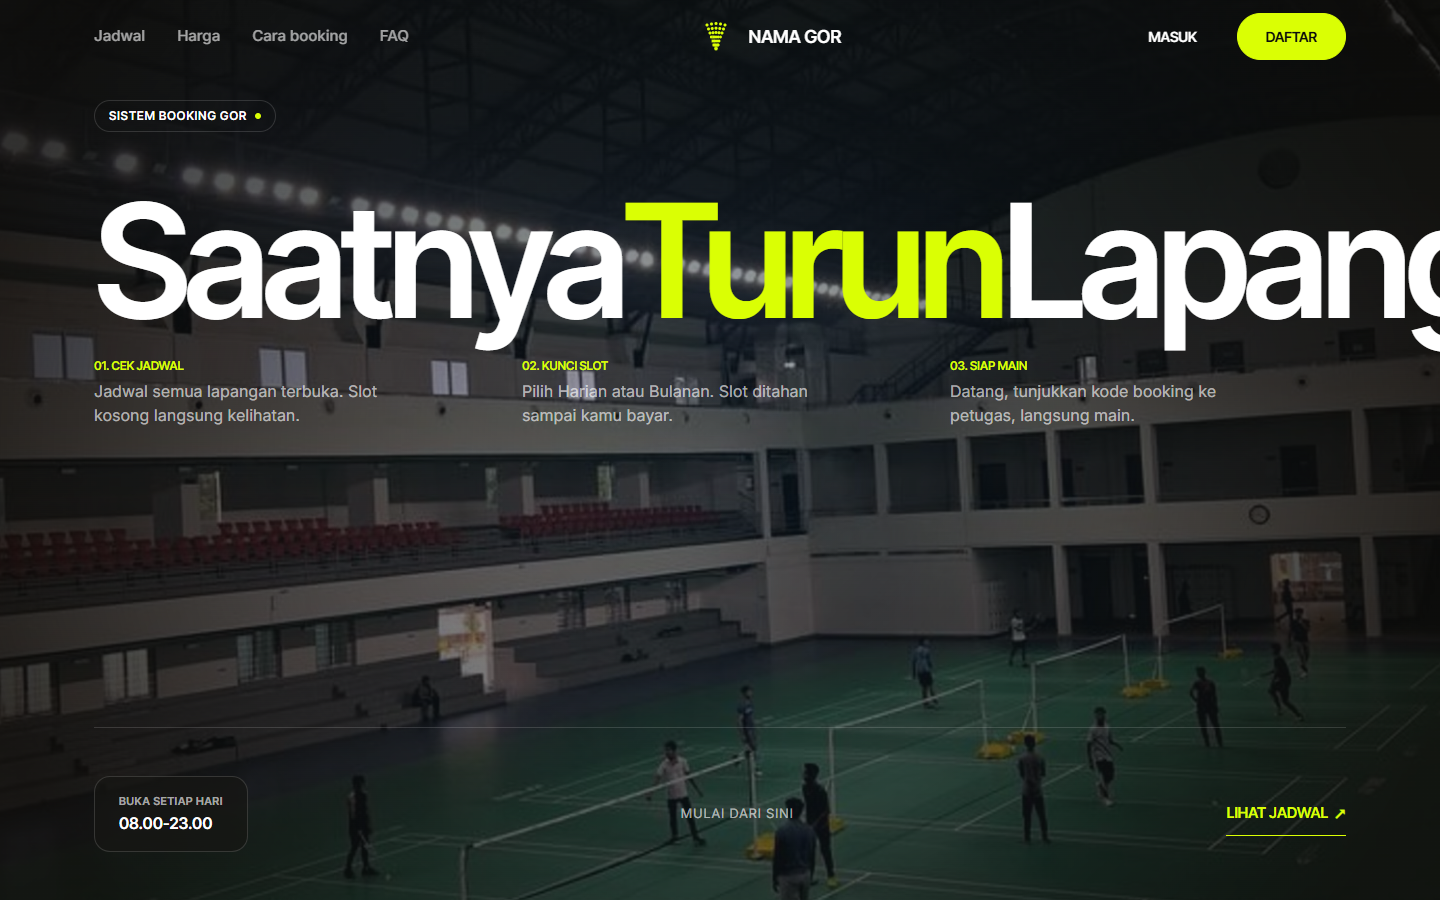
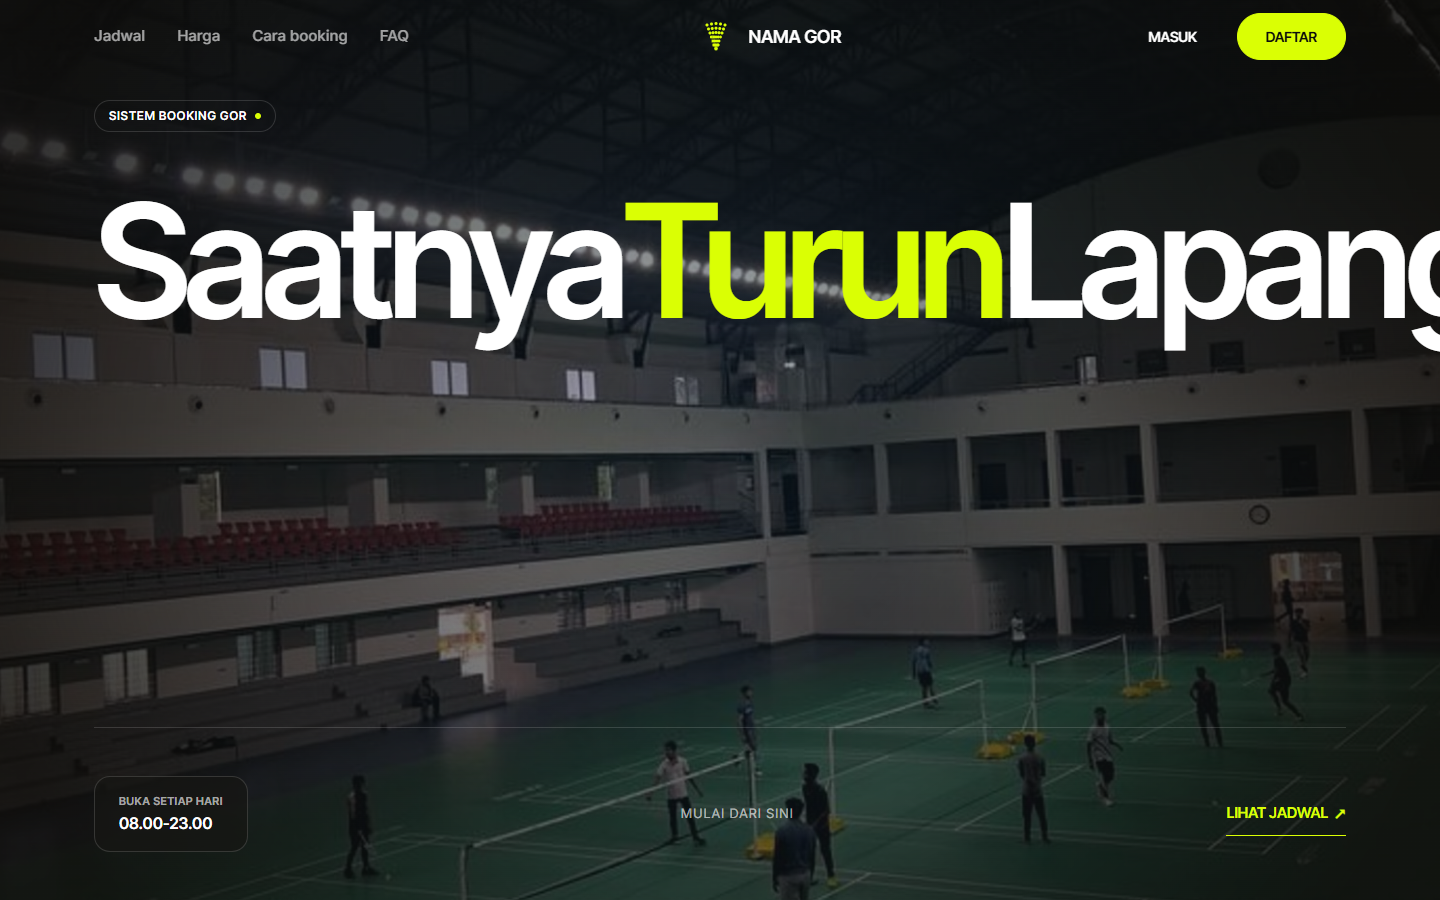
refactor: hapus 3 sub-keterangan di hero section agar tampilan lebih bersih dan sinematik

Changed region(s): [[0.3438, 0.4044, 0.5625, 0.4667], [0.6562, 0.4044, 0.8438, 0.4667], [0.0625, 0.4044, 0.25, 0.4667]]

diff --git a/resources/views/landing.blade.php b/resources/views/landing.blade.php
@@ -21,21 +21,6 @@
                 <span class="teks-lime">Turun</span>
                 <span>Lapangan.</span>
             </h1>
-
-            <div class="hero-grid-sub">
-                <div class="hero-sub-item">
-                    <span class="hero-sub-label">01. Cek Jadwal</span>
-                    <p>Jadwal semua lapangan terbuka. Slot kosong langsung kelihatan.</p>
-                </div>
-                <div class="hero-sub-item">
-                    <span class="hero-sub-label">02. Kunci Slot</span>
-                    <p>Pilih Harian atau Bulanan. Slot ditahan sampai kamu bayar.</p>
-                </div>
-                <div class="hero-sub-item">
-                    <span class="hero-sub-label">03. Siap Main</span>
-                    <p>Datang, tunjukkan kode booking ke petugas, langsung main.</p>
-                </div>
-            </div>
         </div>
 
         <div class="hero-bottom-bar">
